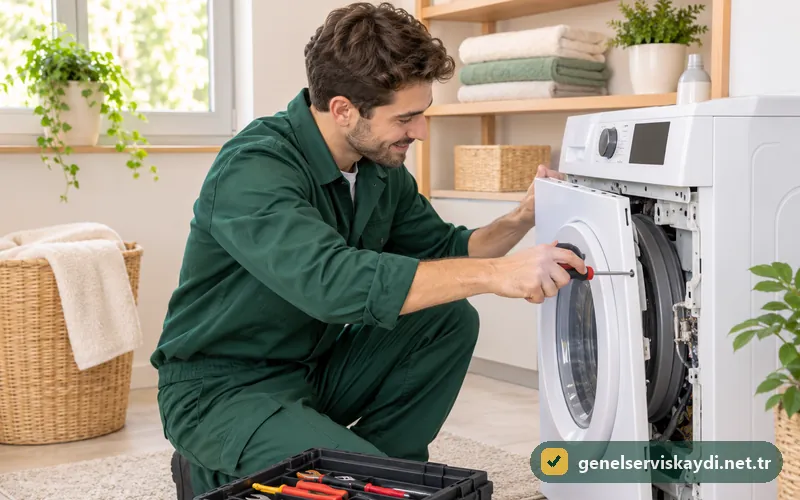
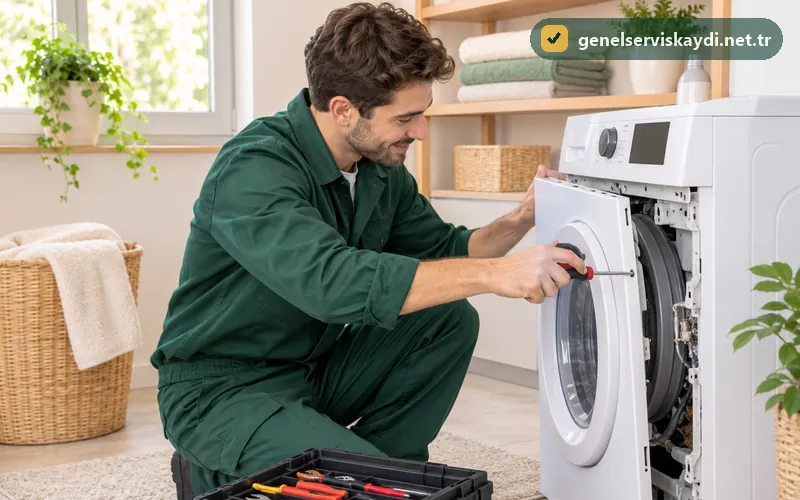
Cihaz kartlarında koyu ton alttan yukarı, filigran sağ üstte; görsel adreslerine sürüm

Changed region(s): [[0.6562, 0.87, 1.0, 0.99], [0.6562, 0.03, 1.0, 0.12]]

diff --git a/index.html b/index.html
@@ -105,7 +105,7 @@ p{margin:0 0 1em}.kap{width:min(1180px,100% - 32px);margin-inline:auto}.dar{widt
 .hizmetler{display:grid;grid-template-columns:repeat(3,1fr);gap:22px}
 .hizmet{background:#fff;border-radius:var(--r);overflow:hidden;box-shadow:0 1px 0 var(--line),0 12px 30px -24px rgba(12,59,46,.5);display:flex;flex-direction:column;transition:transform .2s,box-shadow .2s}
 .hizmet:hover{transform:translateY(-3px);box-shadow:var(--sh)}
-.h-foto{position:relative;aspect-ratio:16/10;border-bottom:3px solid var(--altin)}.h-foto img,.h-foto .yt{width:100%;height:100%;object-fit:cover}.h-foto img{filter:saturate(.88) contrast(1.04)}.h-foto::after{content:"";position:absolute;inset:0;background:linear-gradient(90deg,rgba(9,44,34,.62) 0,rgba(9,44,34,.38) 45%,rgba(9,44,34,.18) 100%);pointer-events:none;transition:opacity .25s}.hizmet:hover .h-foto::after{opacity:.55}.h-etiket{position:absolute;left:14px;top:14px;z-index:1;background:rgba(12,59,46,.86);color:#fff;font:600 .72rem/1 var(--fh);letter-spacing:.06em;text-transform:uppercase;padding:7px 10px;border-radius:6px;border-left:3px solid var(--altin)}.h-ikon{z-index:1}
+.h-foto{position:relative;aspect-ratio:16/10;border-bottom:3px solid var(--altin)}.h-foto img,.h-foto .yt{width:100%;height:100%;object-fit:cover}.h-foto img{filter:saturate(.88) contrast(1.04)}.h-foto::after{content:"";position:absolute;inset:0;background:linear-gradient(0deg,rgba(9,44,34,.85) 0,rgba(9,44,34,.45) 40%,rgba(9,44,34,.08) 100%);pointer-events:none;transition:opacity .25s}.hizmet:hover .h-foto::after{opacity:.55}.h-etiket{position:absolute;left:14px;top:14px;z-index:1;background:rgba(12,59,46,.86);color:#fff;font:600 .72rem/1 var(--fh);letter-spacing:.06em;text-transform:uppercase;padding:7px 10px;border-radius:6px;border-left:3px solid var(--altin)}.h-ikon{z-index:1}
 .h-ikon{position:absolute;left:18px;bottom:-22px;width:48px;height:48px;border-radius:12px;background:var(--yesil);color:var(--altin);display:grid;place-items:center;box-shadow:0 0 0 4px #fff}.h-ikon svg{width:24px;height:24px}
 .h-ic{padding:34px 20px 20px;display:flex;flex-direction:column;flex:1}
 .h-ic h3{color:var(--yesil)}.h-ic p{color:var(--ink2);font-size:.95rem;flex:1}
@@ -173,7 +173,7 @@ footer a{color:#d6e6de;text-decoration:none}footer a:hover{color:var(--altin)}
 <main id="ust">
 <!-- 1 · GİRİŞ + SERVİS KAYDI -->
 <section class="hero foto" aria-labelledby="h1">
-<div class="hero-arka"><img src="img/hero-800.webp" srcset="img/hero-800.webp 800w, img/hero-1400.webp 1400w" sizes="100vw" width="800" height="450" alt="Teknisyen evde bulaşık makinesini onarırken, anne ve kızı mutfakta izliyor" fetchpriority="high"></div>
+<div class="hero-arka"><img src="img/hero-800.webp?v=1795679178" srcset="img/hero-800.webp?v=1795679178 800w, img/hero-1400.webp?v=1795679178 1400w" sizes="100vw" width="800" height="450" alt="Teknisyen evde bulaşık makinesini onarırken, anne ve kızı mutfakta izliyor" fetchpriority="high"></div>
 <div class="kap hero-izgara">
 <div class="hero-ic">
 <span class="etiket">Bağımsız özel teknik servis</span>
@@ -198,7 +198,7 @@ footer a{color:#d6e6de;text-decoration:none}footer a:hover{color:var(--altin)}
 
 <!-- 2 · KURUMSAL YAPI -->
 <section class="bolum" id="kurumsal" aria-labelledby="h-kur"><div class="kap kurumsal">
-<div class="kur-gorsel"><img src="img/kurumsal-800.webp" srcset="img/kurumsal-800.webp 800w, img/kurumsal-1400.webp 855w" sizes="(max-width:900px) 92vw, 520px" width="800" height="880" alt="Servis kayıt biriminde talep kaydeden çalışan" loading="lazy" decoding="async"><div class="kur-rozet"><svg viewBox="0 0 24 24" fill="none" stroke="currentColor" stroke-width="1.9" stroke-linecap="round" stroke-linejoin="round" aria-hidden="true"><path d="M12 22s8-4 8-10V5l-8-3-8 3v7c0 6 8 10 8 10z"/><path d="m9 12 2 2 4-4"/></svg><span><b>Kayıtlı süreç</b>Her talep kayıtla başlar, kayıtla kapanır</span></div></div>
+<div class="kur-gorsel"><img src="img/kurumsal-800.webp?v=1795679179" srcset="img/kurumsal-800.webp?v=1795679179 800w, img/kurumsal-1400.webp?v=1795679179 855w" sizes="(max-width:900px) 92vw, 520px" width="800" height="880" alt="Servis kayıt biriminde talep kaydeden çalışan" loading="lazy" decoding="async"><div class="kur-rozet"><svg viewBox="0 0 24 24" fill="none" stroke="currentColor" stroke-width="1.9" stroke-linecap="round" stroke-linejoin="round" aria-hidden="true"><path d="M12 22s8-4 8-10V5l-8-3-8 3v7c0 6 8 10 8 10z"/><path d="m9 12 2 2 4-4"/></svg><span><b>Kayıtlı süreç</b>Her talep kayıtla başlar, kayıtla kapanır</span></div></div>
 <div>
 <span class="etiket koyu">Kurumsal yapımız</span>
 <h2 id="h-kur">Her servis talebi kayıtlı ve planlı ilerler</h2>
@@ -210,7 +210,7 @@ footer a{color:#d6e6de;text-decoration:none}footer a:hover{color:var(--altin)}
 <!-- 3 · HİZMETLER -->
 <section class="bolum acik" id="hizmetler" aria-labelledby="h-hiz"><div class="kap">
 <div class="bas"><span class="etiket koyu">Hizmetlerimiz</span><h2 id="h-hiz">Servis verdiğimiz cihazlar</h2><p>Arıza, bakım ve onarım için tek kayıt.</p></div>
-<div class="hizmetler"><article class="hizmet"><div class="h-foto"><img src="img/buzdolabi-480.webp" srcset="img/buzdolabi-480.webp 480w, img/buzdolabi-800.webp 800w" sizes="(max-width:640px) 92vw, (max-width:1020px) 46vw, 360px" width="480" height="300" alt="Buzdolabı onarımı yapan teknisyen" loading="lazy" decoding="async"><span class="h-etiket">Servis kaydı · 01</span><span class="h-ikon"><svg viewBox="0 0 24 24" fill="none" stroke="currentColor" stroke-width="1.9" stroke-linecap="round" stroke-linejoin="round" aria-hidden="true"><rect x="5" y="2" width="14" height="20" rx="2.5"/><path d="M5 9.5h14M8.5 5v2M8.5 12.5v3.5"/></svg></span></div><div class="h-ic"><h3>Buzdolabı Servisi</h3><p>Soğutma kaybı, karlanma, su sızıntısı, fan ve termostat arızaları.</p><a href="#kayit">Servis kaydı oluştur <svg viewBox="0 0 24 24" fill="none" stroke="currentColor" stroke-width="1.9" stroke-linecap="round" stroke-linejoin="round" aria-hidden="true"><path d="M5 12h14M13 6l6 6-6 6"/></svg></a></div></article><article class="hizmet"><div class="h-foto"><img src="img/camasir-480.webp" srcset="img/camasir-480.webp 480w, img/camasir-800.webp 800w" sizes="(max-width:640px) 92vw, (max-width:1020px) 46vw, 360px" width="480" height="300" alt="Çamaşır Makinesi onarımı yapan teknisyen" loading="lazy" decoding="async"><span class="h-etiket">Servis kaydı · 02</span><span class="h-ikon"><svg viewBox="0 0 24 24" fill="none" stroke="currentColor" stroke-width="1.9" stroke-linecap="round" stroke-linejoin="round" aria-hidden="true"><rect x="3.5" y="2" width="17" height="20" rx="2.5"/><circle cx="12" cy="13.5" r="5"/><path d="M7 5.5h.01M10 5.5h.01"/></svg></span></div><div class="h-ic"><h3>Çamaşır Makinesi Servisi</h3><p>Su boşaltmama, sıkmama, kapak kilidi, titreşim ve hata uyarıları.</p><a href="#kayit">Servis kaydı oluştur <svg viewBox="0 0 24 24" fill="none" stroke="currentColor" stroke-width="1.9" stroke-linecap="round" stroke-linejoin="round" aria-hidden="true"><path d="M5 12h14M13 6l6 6-6 6"/></svg></a></div></article><article class="hizmet"><div class="h-foto"><img src="img/bulasik-480.webp" srcset="img/bulasik-480.webp 480w, img/bulasik-800.webp 800w" sizes="(max-width:640px) 92vw, (max-width:1020px) 46vw, 360px" width="480" height="300" alt="Bulaşık Makinesi onarımı yapan teknisyen" loading="lazy" decoding="async"><span class="h-etiket">Servis kaydı · 03</span><span class="h-ikon"><svg viewBox="0 0 24 24" fill="none" stroke="currentColor" stroke-width="1.9" stroke-linecap="round" stroke-linejoin="round" aria-hidden="true"><rect x="4" y="2" width="16" height="20" rx="2.5"/><path d="M4 7h16M7.5 4.5h.01M8 11h8M8 14.5h8M8 18h8"/></svg></span></div><div class="h-ic"><h3>Bulaşık Makinesi Servisi</h3><p>Temiz yıkamama, su almama, kurutmama ve pompa arızaları.</p><a href="#kayit">Servis kaydı oluştur <svg viewBox="0 0 24 24" fill="none" stroke="currentColor" stroke-width="1.9" stroke-linecap="round" stroke-linejoin="round" aria-hidden="true"><path d="M5 12h14M13 6l6 6-6 6"/></svg></a></div></article><article class="hizmet"><div class="h-foto"><img src="img/firin-480.webp" srcset="img/firin-480.webp 480w, img/firin-800.webp 800w" sizes="(max-width:640px) 92vw, (max-width:1020px) 46vw, 360px" width="480" height="300" alt="Fırın ve Ocak onarımı yapan teknisyen" loading="lazy" decoding="async"><span class="h-etiket">Servis kaydı · 04</span><span class="h-ikon"><svg viewBox="0 0 24 24" fill="none" stroke="currentColor" stroke-width="1.9" stroke-linecap="round" stroke-linejoin="round" aria-hidden="true"><rect x="3" y="3" width="18" height="18" rx="2.5"/><path d="M3 8h18M6.5 5.5h.01M10 5.5h.01M7 11.5h10v6H7z"/></svg></span></div><div class="h-ic"><h3>Fırın ve Ocak Servisi</h3><p>Isınmama, rezistans, termostat, fan ve ocak gözü arızaları.</p><a href="#kayit">Servis kaydı oluştur <svg viewBox="0 0 24 24" fill="none" stroke="currentColor" stroke-width="1.9" stroke-linecap="round" stroke-linejoin="round" aria-hidden="true"><path d="M5 12h14M13 6l6 6-6 6"/></svg></a></div></article><article class="hizmet"><div class="h-foto"><img src="img/kombi-480.webp" srcset="img/kombi-480.webp 480w, img/kombi-800.webp 800w" sizes="(max-width:640px) 92vw, (max-width:1020px) 46vw, 360px" width="480" height="300" alt="Kombi onarımı yapan teknisyen" loading="lazy" decoding="async"><span class="h-etiket">Servis kaydı · 05</span><span class="h-ikon"><svg viewBox="0 0 24 24" fill="none" stroke="currentColor" stroke-width="1.9" stroke-linecap="round" stroke-linejoin="round" aria-hidden="true"><rect x="5" y="2" width="14" height="15" rx="2.5"/><path d="M9 21v-4M15 21v-4M12 5.5c-1.6 2-2.2 3.2-2.2 4.2a2.2 2.2 0 0 0 4.4 0c0-1-.6-2.2-2.2-4.2z"/></svg></span></div><div class="h-ic"><h3>Kombi Servisi</h3><p>Sıcak su sorunu, basınç düşmesi, arıza kodları ve periyodik bakım.</p><a href="#kayit">Servis kaydı oluştur <svg viewBox="0 0 24 24" fill="none" stroke="currentColor" stroke-width="1.9" stroke-linecap="round" stroke-linejoin="round" aria-hidden="true"><path d="M5 12h14M13 6l6 6-6 6"/></svg></a></div></article><article class="hizmet"><div class="h-foto"><img src="img/klima-480.webp" srcset="img/klima-480.webp 480w, img/klima-800.webp 800w" sizes="(max-width:640px) 92vw, (max-width:1020px) 46vw, 360px" width="480" height="300" alt="Klima onarımı yapan teknisyen" loading="lazy" decoding="async"><span class="h-etiket">Servis kaydı · 06</span><span class="h-ikon"><svg viewBox="0 0 24 24" fill="none" stroke="currentColor" stroke-width="1.9" stroke-linecap="round" stroke-linejoin="round" aria-hidden="true"><rect x="2" y="4" width="20" height="8.5" rx="2.5"/><path d="M6 9.5h12M7 16c0 1.5-1 2-1 3.5M12 16v4M17 16c0 1.5 1 2 1 3.5"/></svg></span></div><div class="h-ic"><h3>Klima Servisi</h3><p>Soğutmama, su damlatma, koku, ses ve mevsimlik bakım.</p><a href="#kayit">Servis kaydı oluştur <svg viewBox="0 0 24 24" fill="none" stroke="currentColor" stroke-width="1.9" stroke-linecap="round" stroke-linejoin="round" aria-hidden="true"><path d="M5 12h14M13 6l6 6-6 6"/></svg></a></div></article></div>
+<div class="hizmetler"><article class="hizmet"><div class="h-foto"><img src="img/buzdolabi-480.webp?v=1795679177" srcset="img/buzdolabi-480.webp?v=1795679177 480w, img/buzdolabi-800.webp?v=1795679177 800w" sizes="(max-width:640px) 92vw, (max-width:1020px) 46vw, 360px" width="480" height="300" alt="Buzdolabı onarımı yapan teknisyen" loading="lazy" decoding="async"><span class="h-etiket">Servis kaydı · 01</span><span class="h-ikon"><svg viewBox="0 0 24 24" fill="none" stroke="currentColor" stroke-width="1.9" stroke-linecap="round" stroke-linejoin="round" aria-hidden="true"><rect x="5" y="2" width="14" height="20" rx="2.5"/><path d="M5 9.5h14M8.5 5v2M8.5 12.5v3.5"/></svg></span></div><div class="h-ic"><h3>Buzdolabı Servisi</h3><p>Soğutma kaybı, karlanma, su sızıntısı, fan ve termostat arızaları.</p><a href="#kayit">Servis kaydı oluştur <svg viewBox="0 0 24 24" fill="none" stroke="currentColor" stroke-width="1.9" stroke-linecap="round" stroke-linejoin="round" aria-hidden="true"><path d="M5 12h14M13 6l6 6-6 6"/></svg></a></div></article><article class="hizmet"><div class="h-foto"><img src="img/camasir-480.webp?v=1795679177" srcset="img/camasir-480.webp?v=1795679177 480w, img/camasir-800.webp?v=1795679177 800w" sizes="(max-width:640px) 92vw, (max-width:1020px) 46vw, 360px" width="480" height="300" alt="Çamaşır Makinesi onarımı yapan teknisyen" loading="lazy" decoding="async"><span class="h-etiket">Servis kaydı · 02</span><span class="h-ikon"><svg viewBox="0 0 24 24" fill="none" stroke="currentColor" stroke-width="1.9" stroke-linecap="round" stroke-linejoin="round" aria-hidden="true"><rect x="3.5" y="2" width="17" height="20" rx="2.5"/><circle cx="12" cy="13.5" r="5"/><path d="M7 5.5h.01M10 5.5h.01"/></svg></span></div><div class="h-ic"><h3>Çamaşır Makinesi Servisi</h3><p>Su boşaltmama, sıkmama, kapak kilidi, titreşim ve hata uyarıları.</p><a href="#kayit">Servis kaydı oluştur <svg viewBox="0 0 24 24" fill="none" stroke="currentColor" stroke-width="1.9" stroke-linecap="round" stroke-linejoin="round" aria-hidden="true"><path d="M5 12h14M13 6l6 6-6 6"/></svg></a></div></article><article class="hizmet"><div class="h-foto"><img src="img/bulasik-480.webp?v=1795679177" srcset="img/bulasik-480.webp?v=1795679177 480w, img/bulasik-800.webp?v=1795679177 800w" sizes="(max-width:640px) 92vw, (max-width:1020px) 46vw, 360px" width="480" height="300" alt="Bulaşık Makinesi onarımı yapan teknisyen" loading="lazy" decoding="async"><span class="h-etiket">Servis kaydı · 03</span><span class="h-ikon"><svg viewBox="0 0 24 24" fill="none" stroke="currentColor" stroke-width="1.9" stroke-linecap="round" stroke-linejoin="round" aria-hidden="true"><rect x="4" y="2" width="16" height="20" rx="2.5"/><path d="M4 7h16M7.5 4.5h.01M8 11h8M8 14.5h8M8 18h8"/></svg></span></div><div class="h-ic"><h3>Bulaşık Makinesi Servisi</h3><p>Temiz yıkamama, su almama, kurutmama ve pompa arızaları.</p><a href="#kayit">Servis kaydı oluştur <svg viewBox="0 0 24 24" fill="none" stroke="currentColor" stroke-width="1.9" stroke-linecap="round" stroke-linejoin="round" aria-hidden="true"><path d="M5 12h14M13 6l6 6-6 6"/></svg></a></div></article><article class="hizmet"><div class="h-foto"><img src="img/firin-480.webp?v=1795679178" srcset="img/firin-480.webp?v=1795679178 480w, img/firin-800.webp?v=1795679178 800w" sizes="(max-width:640px) 92vw, (max-width:1020px) 46vw, 360px" width="480" height="300" alt="Fırın ve Ocak onarımı yapan teknisyen" loading="lazy" decoding="async"><span class="h-etiket">Servis kaydı · 04</span><span class="h-ikon"><svg viewBox="0 0 24 24" fill="none" stroke="currentColor" stroke-width="1.9" stroke-linecap="round" stroke-linejoin="round" aria-hidden="true"><rect x="3" y="3" width="18" height="18" rx="2.5"/><path d="M3 8h18M6.5 5.5h.01M10 5.5h.01M7 11.5h10v6H7z"/></svg></span></div><div class="h-ic"><h3>Fırın ve Ocak Servisi</h3><p>Isınmama, rezistans, termostat, fan ve ocak gözü arızaları.</p><a href="#kayit">Servis kaydı oluştur <svg viewBox="0 0 24 24" fill="none" stroke="currentColor" stroke-width="1.9" stroke-linecap="round" stroke-linejoin="round" aria-hidden="true"><path d="M5 12h14M13 6l6 6-6 6"/></svg></a></div></article><article class="hizmet"><div class="h-foto"><img src="img/kombi-480.webp?v=1795679178" srcset="img/kombi-480.webp?v=1795679178 480w, img/kombi-800.webp?v=1795679179 800w" sizes="(max-width:640px) 92vw, (max-width:1020px) 46vw, 360px" width="480" height="300" alt="Kombi onarımı yapan teknisyen" loading="lazy" decoding="async"><span class="h-etiket">Servis kaydı · 05</span><span class="h-ikon"><svg viewBox="0 0 24 24" fill="none" stroke="currentColor" stroke-width="1.9" stroke-linecap="round" stroke-linejoin="round" aria-hidden="true"><rect x="5" y="2" width="14" height="15" rx="2.5"/><path d="M9 21v-4M15 21v-4M12 5.5c-1.6 2-2.2 3.2-2.2 4.2a2.2 2.2 0 0 0 4.4 0c0-1-.6-2.2-2.2-4.2z"/></svg></span></div><div class="h-ic"><h3>Kombi Servisi</h3><p>Sıcak su sorunu, basınç düşmesi, arıza kodları ve periyodik bakım.</p><a href="#kayit">Servis kaydı oluştur <svg viewBox="0 0 24 24" fill="none" stroke="currentColor" stroke-width="1.9" stroke-linecap="round" stroke-linejoin="round" aria-hidden="true"><path d="M5 12h14M13 6l6 6-6 6"/></svg></a></div></article><article class="hizmet"><div class="h-foto"><img src="img/klima-480.webp?v=1795679178" srcset="img/klima-480.webp?v=1795679178 480w, img/klima-800.webp?v=1795679178 800w" sizes="(max-width:640px) 92vw, (max-width:1020px) 46vw, 360px" width="480" height="300" alt="Klima onarımı yapan teknisyen" loading="lazy" decoding="async"><span class="h-etiket">Servis kaydı · 06</span><span class="h-ikon"><svg viewBox="0 0 24 24" fill="none" stroke="currentColor" stroke-width="1.9" stroke-linecap="round" stroke-linejoin="round" aria-hidden="true"><rect x="2" y="4" width="20" height="8.5" rx="2.5"/><path d="M6 9.5h12M7 16c0 1.5-1 2-1 3.5M12 16v4M17 16c0 1.5 1 2 1 3.5"/></svg></span></div><div class="h-ic"><h3>Klima Servisi</h3><p>Soğutmama, su damlatma, koku, ses ve mevsimlik bakım.</p><a href="#kayit">Servis kaydı oluştur <svg viewBox="0 0 24 24" fill="none" stroke="currentColor" stroke-width="1.9" stroke-linecap="round" stroke-linejoin="round" aria-hidden="true"><path d="M5 12h14M13 6l6 6-6 6"/></svg></a></div></article></div>
 </div></section>
 
 <!-- 4 · SERVİS KAYDI SÜRECİ -->

diff --git a/404.html b/404.html
@@ -105,7 +105,7 @@ p{margin:0 0 1em}.kap{width:min(1180px,100% - 32px);margin-inline:auto}.dar{widt
 .hizmetler{display:grid;grid-template-columns:repeat(3,1fr);gap:22px}
 .hizmet{background:#fff;border-radius:var(--r);overflow:hidden;box-shadow:0 1px 0 var(--line),0 12px 30px -24px rgba(12,59,46,.5);display:flex;flex-direction:column;transition:transform .2s,box-shadow .2s}
 .hizmet:hover{transform:translateY(-3px);box-shadow:var(--sh)}
-.h-foto{position:relative;aspect-ratio:16/10;border-bottom:3px solid var(--altin)}.h-foto img,.h-foto .yt{width:100%;height:100%;object-fit:cover}.h-foto img{filter:saturate(.88) contrast(1.04)}.h-foto::after{content:"";position:absolute;inset:0;background:linear-gradient(90deg,rgba(9,44,34,.62) 0,rgba(9,44,34,.38) 45%,rgba(9,44,34,.18) 100%);pointer-events:none;transition:opacity .25s}.hizmet:hover .h-foto::after{opacity:.55}.h-etiket{position:absolute;left:14px;top:14px;z-index:1;background:rgba(12,59,46,.86);color:#fff;font:600 .72rem/1 var(--fh);letter-spacing:.06em;text-transform:uppercase;padding:7px 10px;border-radius:6px;border-left:3px solid var(--altin)}.h-ikon{z-index:1}
+.h-foto{position:relative;aspect-ratio:16/10;border-bottom:3px solid var(--altin)}.h-foto img,.h-foto .yt{width:100%;height:100%;object-fit:cover}.h-foto img{filter:saturate(.88) contrast(1.04)}.h-foto::after{content:"";position:absolute;inset:0;background:linear-gradient(0deg,rgba(9,44,34,.85) 0,rgba(9,44,34,.45) 40%,rgba(9,44,34,.08) 100%);pointer-events:none;transition:opacity .25s}.hizmet:hover .h-foto::after{opacity:.55}.h-etiket{position:absolute;left:14px;top:14px;z-index:1;background:rgba(12,59,46,.86);color:#fff;font:600 .72rem/1 var(--fh);letter-spacing:.06em;text-transform:uppercase;padding:7px 10px;border-radius:6px;border-left:3px solid var(--altin)}.h-ikon{z-index:1}
 .h-ikon{position:absolute;left:18px;bottom:-22px;width:48px;height:48px;border-radius:12px;background:var(--yesil);color:var(--altin);display:grid;place-items:center;box-shadow:0 0 0 4px #fff}.h-ikon svg{width:24px;height:24px}
 .h-ic{padding:34px 20px 20px;display:flex;flex-direction:column;flex:1}
 .h-ic h3{color:var(--yesil)}.h-ic p{color:var(--ink2);font-size:.95rem;flex:1}

diff --git a/cerez-politikasi.html b/cerez-politikasi.html
@@ -105,7 +105,7 @@ p{margin:0 0 1em}.kap{width:min(1180px,100% - 32px);margin-inline:auto}.dar{widt
 .hizmetler{display:grid;grid-template-columns:repeat(3,1fr);gap:22px}
 .hizmet{background:#fff;border-radius:var(--r);overflow:hidden;box-shadow:0 1px 0 var(--line),0 12px 30px -24px rgba(12,59,46,.5);display:flex;flex-direction:column;transition:transform .2s,box-shadow .2s}
 .hizmet:hover{transform:translateY(-3px);box-shadow:var(--sh)}
-.h-foto{position:relative;aspect-ratio:16/10;border-bottom:3px solid var(--altin)}.h-foto img,.h-foto .yt{width:100%;height:100%;object-fit:cover}.h-foto img{filter:saturate(.88) contrast(1.04)}.h-foto::after{content:"";position:absolute;inset:0;background:linear-gradient(90deg,rgba(9,44,34,.62) 0,rgba(9,44,34,.38) 45%,rgba(9,44,34,.18) 100%);pointer-events:none;transition:opacity .25s}.hizmet:hover .h-foto::after{opacity:.55}.h-etiket{position:absolute;left:14px;top:14px;z-index:1;background:rgba(12,59,46,.86);color:#fff;font:600 .72rem/1 var(--fh);letter-spacing:.06em;text-transform:uppercase;padding:7px 10px;border-radius:6px;border-left:3px solid var(--altin)}.h-ikon{z-index:1}
+.h-foto{position:relative;aspect-ratio:16/10;border-bottom:3px solid var(--altin)}.h-foto img,.h-foto .yt{width:100%;height:100%;object-fit:cover}.h-foto img{filter:saturate(.88) contrast(1.04)}.h-foto::after{content:"";position:absolute;inset:0;background:linear-gradient(0deg,rgba(9,44,34,.85) 0,rgba(9,44,34,.45) 40%,rgba(9,44,34,.08) 100%);pointer-events:none;transition:opacity .25s}.hizmet:hover .h-foto::after{opacity:.55}.h-etiket{position:absolute;left:14px;top:14px;z-index:1;background:rgba(12,59,46,.86);color:#fff;font:600 .72rem/1 var(--fh);letter-spacing:.06em;text-transform:uppercase;padding:7px 10px;border-radius:6px;border-left:3px solid var(--altin)}.h-ikon{z-index:1}
 .h-ikon{position:absolute;left:18px;bottom:-22px;width:48px;height:48px;border-radius:12px;background:var(--yesil);color:var(--altin);display:grid;place-items:center;box-shadow:0 0 0 4px #fff}.h-ikon svg{width:24px;height:24px}
 .h-ic{padding:34px 20px 20px;display:flex;flex-direction:column;flex:1}
 .h-ic h3{color:var(--yesil)}.h-ic p{color:var(--ink2);font-size:.95rem;flex:1}

diff --git a/gizlilik.html b/gizlilik.html
@@ -105,7 +105,7 @@ p{margin:0 0 1em}.kap{width:min(1180px,100% - 32px);margin-inline:auto}.dar{widt
 .hizmetler{display:grid;grid-template-columns:repeat(3,1fr);gap:22px}
 .hizmet{background:#fff;border-radius:var(--r);overflow:hidden;box-shadow:0 1px 0 var(--line),0 12px 30px -24px rgba(12,59,46,.5);display:flex;flex-direction:column;transition:transform .2s,box-shadow .2s}
 .hizmet:hover{transform:translateY(-3px);box-shadow:var(--sh)}
-.h-foto{position:relative;aspect-ratio:16/10;border-bottom:3px solid var(--altin)}.h-foto img,.h-foto .yt{width:100%;height:100%;object-fit:cover}.h-foto img{filter:saturate(.88) contrast(1.04)}.h-foto::after{content:"";position:absolute;inset:0;background:linear-gradient(90deg,rgba(9,44,34,.62) 0,rgba(9,44,34,.38) 45%,rgba(9,44,34,.18) 100%);pointer-events:none;transition:opacity .25s}.hizmet:hover .h-foto::after{opacity:.55}.h-etiket{position:absolute;left:14px;top:14px;z-index:1;background:rgba(12,59,46,.86);color:#fff;font:600 .72rem/1 var(--fh);letter-spacing:.06em;text-transform:uppercase;padding:7px 10px;border-radius:6px;border-left:3px solid var(--altin)}.h-ikon{z-index:1}
+.h-foto{position:relative;aspect-ratio:16/10;border-bottom:3px solid var(--altin)}.h-foto img,.h-foto .yt{width:100%;height:100%;object-fit:cover}.h-foto img{filter:saturate(.88) contrast(1.04)}.h-foto::after{content:"";position:absolute;inset:0;background:linear-gradient(0deg,rgba(9,44,34,.85) 0,rgba(9,44,34,.45) 40%,rgba(9,44,34,.08) 100%);pointer-events:none;transition:opacity .25s}.hizmet:hover .h-foto::after{opacity:.55}.h-etiket{position:absolute;left:14px;top:14px;z-index:1;background:rgba(12,59,46,.86);color:#fff;font:600 .72rem/1 var(--fh);letter-spacing:.06em;text-transform:uppercase;padding:7px 10px;border-radius:6px;border-left:3px solid var(--altin)}.h-ikon{z-index:1}
 .h-ikon{position:absolute;left:18px;bottom:-22px;width:48px;height:48px;border-radius:12px;background:var(--yesil);color:var(--altin);display:grid;place-items:center;box-shadow:0 0 0 4px #fff}.h-ikon svg{width:24px;height:24px}
 .h-ic{padding:34px 20px 20px;display:flex;flex-direction:column;flex:1}
 .h-ic h3{color:var(--yesil)}.h-ic p{color:var(--ink2);font-size:.95rem;flex:1}

diff --git a/hakkimizda.html b/hakkimizda.html
@@ -105,7 +105,7 @@ p{margin:0 0 1em}.kap{width:min(1180px,100% - 32px);margin-inline:auto}.dar{widt
 .hizmetler{display:grid;grid-template-columns:repeat(3,1fr);gap:22px}
 .hizmet{background:#fff;border-radius:var(--r);overflow:hidden;box-shadow:0 1px 0 var(--line),0 12px 30px -24px rgba(12,59,46,.5);display:flex;flex-direction:column;transition:transform .2s,box-shadow .2s}
 .hizmet:hover{transform:translateY(-3px);box-shadow:var(--sh)}
-.h-foto{position:relative;aspect-ratio:16/10;border-bottom:3px solid var(--altin)}.h-foto img,.h-foto .yt{width:100%;height:100%;object-fit:cover}.h-foto img{filter:saturate(.88) contrast(1.04)}.h-foto::after{content:"";position:absolute;inset:0;background:linear-gradient(90deg,rgba(9,44,34,.62) 0,rgba(9,44,34,.38) 45%,rgba(9,44,34,.18) 100%);pointer-events:none;transition:opacity .25s}.hizmet:hover .h-foto::after{opacity:.55}.h-etiket{position:absolute;left:14px;top:14px;z-index:1;background:rgba(12,59,46,.86);color:#fff;font:600 .72rem/1 var(--fh);letter-spacing:.06em;text-transform:uppercase;padding:7px 10px;border-radius:6px;border-left:3px solid var(--altin)}.h-ikon{z-index:1}
+.h-foto{position:relative;aspect-ratio:16/10;border-bottom:3px solid var(--altin)}.h-foto img,.h-foto .yt{width:100%;height:100%;object-fit:cover}.h-foto img{filter:saturate(.88) contrast(1.04)}.h-foto::after{content:"";position:absolute;inset:0;background:linear-gradient(0deg,rgba(9,44,34,.85) 0,rgba(9,44,34,.45) 40%,rgba(9,44,34,.08) 100%);pointer-events:none;transition:opacity .25s}.hizmet:hover .h-foto::after{opacity:.55}.h-etiket{position:absolute;left:14px;top:14px;z-index:1;background:rgba(12,59,46,.86);color:#fff;font:600 .72rem/1 var(--fh);letter-spacing:.06em;text-transform:uppercase;padding:7px 10px;border-radius:6px;border-left:3px solid var(--altin)}.h-ikon{z-index:1}
 .h-ikon{position:absolute;left:18px;bottom:-22px;width:48px;height:48px;border-radius:12px;background:var(--yesil);color:var(--altin);display:grid;place-items:center;box-shadow:0 0 0 4px #fff}.h-ikon svg{width:24px;height:24px}
 .h-ic{padding:34px 20px 20px;display:flex;flex-direction:column;flex:1}
 .h-ic h3{color:var(--yesil)}.h-ic p{color:var(--ink2);font-size:.95rem;flex:1}

diff --git a/hizmet-kosullari.html b/hizmet-kosullari.html
@@ -105,7 +105,7 @@ p{margin:0 0 1em}.kap{width:min(1180px,100% - 32px);margin-inline:auto}.dar{widt
 .hizmetler{display:grid;grid-template-columns:repeat(3,1fr);gap:22px}
 .hizmet{background:#fff;border-radius:var(--r);overflow:hidden;box-shadow:0 1px 0 var(--line),0 12px 30px -24px rgba(12,59,46,.5);display:flex;flex-direction:column;transition:transform .2s,box-shadow .2s}
 .hizmet:hover{transform:translateY(-3px);box-shadow:var(--sh)}
-.h-foto{position:relative;aspect-ratio:16/10;border-bottom:3px solid var(--altin)}.h-foto img,.h-foto .yt{width:100%;height:100%;object-fit:cover}.h-foto img{filter:saturate(.88) contrast(1.04)}.h-foto::after{content:"";position:absolute;inset:0;background:linear-gradient(90deg,rgba(9,44,34,.62) 0,rgba(9,44,34,.38) 45%,rgba(9,44,34,.18) 100%);pointer-events:none;transition:opacity .25s}.hizmet:hover .h-foto::after{opacity:.55}.h-etiket{position:absolute;left:14px;top:14px;z-index:1;background:rgba(12,59,46,.86);color:#fff;font:600 .72rem/1 var(--fh);letter-spacing:.06em;text-transform:uppercase;padding:7px 10px;border-radius:6px;border-left:3px solid var(--altin)}.h-ikon{z-index:1}
+.h-foto{position:relative;aspect-ratio:16/10;border-bottom:3px solid var(--altin)}.h-foto img,.h-foto .yt{width:100%;height:100%;object-fit:cover}.h-foto img{filter:saturate(.88) contrast(1.04)}.h-foto::after{content:"";position:absolute;inset:0;background:linear-gradient(0deg,rgba(9,44,34,.85) 0,rgba(9,44,34,.45) 40%,rgba(9,44,34,.08) 100%);pointer-events:none;transition:opacity .25s}.hizmet:hover .h-foto::after{opacity:.55}.h-etiket{position:absolute;left:14px;top:14px;z-index:1;background:rgba(12,59,46,.86);color:#fff;font:600 .72rem/1 var(--fh);letter-spacing:.06em;text-transform:uppercase;padding:7px 10px;border-radius:6px;border-left:3px solid var(--altin)}.h-ikon{z-index:1}
 .h-ikon{position:absolute;left:18px;bottom:-22px;width:48px;height:48px;border-radius:12px;background:var(--yesil);color:var(--altin);display:grid;place-items:center;box-shadow:0 0 0 4px #fff}.h-ikon svg{width:24px;height:24px}
 .h-ic{padding:34px 20px 20px;display:flex;flex-direction:column;flex:1}
 .h-ic h3{color:var(--yesil)}.h-ic p{color:var(--ink2);font-size:.95rem;flex:1}

diff --git a/iletisim.html b/iletisim.html
@@ -105,7 +105,7 @@ p{margin:0 0 1em}.kap{width:min(1180px,100% - 32px);margin-inline:auto}.dar{widt
 .hizmetler{display:grid;grid-template-columns:repeat(3,1fr);gap:22px}
 .hizmet{background:#fff;border-radius:var(--r);overflow:hidden;box-shadow:0 1px 0 var(--line),0 12px 30px -24px rgba(12,59,46,.5);display:flex;flex-direction:column;transition:transform .2s,box-shadow .2s}
 .hizmet:hover{transform:translateY(-3px);box-shadow:var(--sh)}
-.h-foto{position:relative;aspect-ratio:16/10;border-bottom:3px solid var(--altin)}.h-foto img,.h-foto .yt{width:100%;height:100%;object-fit:cover}.h-foto img{filter:saturate(.88) contrast(1.04)}.h-foto::after{content:"";position:absolute;inset:0;background:linear-gradient(90deg,rgba(9,44,34,.62) 0,rgba(9,44,34,.38) 45%,rgba(9,44,34,.18) 100%);pointer-events:none;transition:opacity .25s}.hizmet:hover .h-foto::after{opacity:.55}.h-etiket{position:absolute;left:14px;top:14px;z-index:1;background:rgba(12,59,46,.86);color:#fff;font:600 .72rem/1 var(--fh);letter-spacing:.06em;text-transform:uppercase;padding:7px 10px;border-radius:6px;border-left:3px solid var(--altin)}.h-ikon{z-index:1}
+.h-foto{position:relative;aspect-ratio:16/10;border-bottom:3px solid var(--altin)}.h-foto img,.h-foto .yt{width:100%;height:100%;object-fit:cover}.h-foto img{filter:saturate(.88) contrast(1.04)}.h-foto::after{content:"";position:absolute;inset:0;background:linear-gradient(0deg,rgba(9,44,34,.85) 0,rgba(9,44,34,.45) 40%,rgba(9,44,34,.08) 100%);pointer-events:none;transition:opacity .25s}.hizmet:hover .h-foto::after{opacity:.55}.h-etiket{position:absolute;left:14px;top:14px;z-index:1;background:rgba(12,59,46,.86);color:#fff;font:600 .72rem/1 var(--fh);letter-spacing:.06em;text-transform:uppercase;padding:7px 10px;border-radius:6px;border-left:3px solid var(--altin)}.h-ikon{z-index:1}
 .h-ikon{position:absolute;left:18px;bottom:-22px;width:48px;height:48px;border-radius:12px;background:var(--yesil);color:var(--altin);display:grid;place-items:center;box-shadow:0 0 0 4px #fff}.h-ikon svg{width:24px;height:24px}
 .h-ic{padding:34px 20px 20px;display:flex;flex-direction:column;flex:1}
 .h-ic h3{color:var(--yesil)}.h-ic p{color:var(--ink2);font-size:.95rem;flex:1}

diff --git a/_kaynak/stil.css b/_kaynak/stil.css
@@ -90,7 +90,7 @@ p{margin:0 0 1em}.kap{width:min(1180px,100% - 32px);margin-inline:auto}.dar{widt
 .hizmetler{display:grid;grid-template-columns:repeat(3,1fr);gap:22px}
 .hizmet{background:#fff;border-radius:var(--r);overflow:hidden;box-shadow:0 1px 0 var(--line),0 12px 30px -24px rgba(12,59,46,.5);display:flex;flex-direction:column;transition:transform .2s,box-shadow .2s}
 .hizmet:hover{transform:translateY(-3px);box-shadow:var(--sh)}
-.h-foto{position:relative;aspect-ratio:16/10;border-bottom:3px solid var(--altin)}.h-foto img,.h-foto .yt{width:100%;height:100%;object-fit:cover}.h-foto img{filter:saturate(.88) contrast(1.04)}.h-foto::after{content:"";position:absolute;inset:0;background:linear-gradient(90deg,rgba(9,44,34,.62) 0,rgba(9,44,34,.38) 45%,rgba(9,44,34,.18) 100%);pointer-events:none;transition:opacity .25s}.hizmet:hover .h-foto::after{opacity:.55}.h-etiket{position:absolute;left:14px;top:14px;z-index:1;background:rgba(12,59,46,.86);color:#fff;font:600 .72rem/1 var(--fh);letter-spacing:.06em;text-transform:uppercase;padding:7px 10px;border-radius:6px;border-left:3px solid var(--altin)}.h-ikon{z-index:1}
+.h-foto{position:relative;aspect-ratio:16/10;border-bottom:3px solid var(--altin)}.h-foto img,.h-foto .yt{width:100%;height:100%;object-fit:cover}.h-foto img{filter:saturate(.88) contrast(1.04)}.h-foto::after{content:"";position:absolute;inset:0;background:linear-gradient(0deg,rgba(9,44,34,.85) 0,rgba(9,44,34,.45) 40%,rgba(9,44,34,.08) 100%);pointer-events:none;transition:opacity .25s}.hizmet:hover .h-foto::after{opacity:.55}.h-etiket{position:absolute;left:14px;top:14px;z-index:1;background:rgba(12,59,46,.86);color:#fff;font:600 .72rem/1 var(--fh);letter-spacing:.06em;text-transform:uppercase;padding:7px 10px;border-radius:6px;border-left:3px solid var(--altin)}.h-ikon{z-index:1}
 .h-ikon{position:absolute;left:18px;bottom:-22px;width:48px;height:48px;border-radius:12px;background:var(--yesil);color:var(--altin);display:grid;place-items:center;box-shadow:0 0 0 4px #fff}.h-ikon svg{width:24px;height:24px}
 .h-ic{padding:34px 20px 20px;display:flex;flex-direction:column;flex:1}
 .h-ic h3{color:var(--yesil)}.h-ic p{color:var(--ink2);font-size:.95rem;flex:1}

diff --git a/_kaynak/build.py b/_kaynak/build.py
@@ -60,7 +60,7 @@ GORSEL = {}
 FILIGRANSIZ = ("hero",)  # hero arka planda koyu katmanın altında; filigran eklenmez
 
 
-def filigran(im):
+def filigran(im, ust=False):
     """Sağ alt köşeye yarı saydam logo + alan adı (kurumsal damga)."""
     from PIL import Image, ImageDraw, ImageFont
     im = im.convert("RGBA")
@@ -80,7 +80,7 @@ def filigran(im):
     pad = round(boy * 0.6)
     kw, kh = round(ikon + pad * 3 + tw), round(ikon + pad * 1.4)
     m = round(w * 0.022)
-    x0, y0 = w - kw - m, h - kh - m
+    x0, y0 = w - kw - m, (m if ust else h - kh - m)
     d.rounded_rectangle((x0, y0, x0 + kw, y0 + kh), radius=kh // 2, fill=(12, 59, 46, 150))
     ix, iy = x0 + pad, y0 + (kh - ikon) // 2
     d.rounded_rectangle((ix, iy, ix + ikon, iy + ikon), radius=round(ikon * 0.28), fill=(224, 177, 58, 235))
@@ -120,7 +120,7 @@ def gorselleri_hazirla():
             hedef = os.path.join(KOK, "img", f"{ad}-{g}.webp")
             if not os.path.exists(hedef) or os.path.getmtime(hedef) < os.path.getmtime(os.path.join(kaynak, dosya)):
                 kucuk = im.resize((g2, h2), Image.LANCZOS)
-                (kucuk if ad in FILIGRANSIZ else filigran(kucuk)).save(hedef, "WEBP", quality=80, method=6)
+                (kucuk if ad in FILIGRANSIZ else filigran(kucuk, ust=ad not in ("kurumsal", "og-kapak"))).save(hedef, "WEBP", quality=80, method=6)
             boy.append((g, g2, h2))
         hazir[ad] = boy
     return hazir
@@ -130,10 +130,11 @@ def resim(ad, alt, sizes, oncelik=False):
     if ad not in GORSEL:
         return ""
     boy = GORSEL[ad]
-    srcset = ", ".join(f"img/{ad}-{g}.webp {g2}w" for g, g2, _ in boy)
+    v = lambda g: int(os.path.getmtime(os.path.join(KOK, "img", f"{ad}-{g}.webp")))  # önbellek kırıcı
+    srcset = ", ".join(f"img/{ad}-{g}.webp?v={v(g)} {g2}w" for g, g2, _ in boy)
     _, w0, h0 = boy[0]
     yuk = 'fetchpriority="high"' if oncelik else 'loading="lazy" decoding="async"'
-    return f'<img src="img/{ad}-{boy[0][0]}.webp" srcset="{srcset}" sizes="{sizes}" width="{w0}" height="{h0}" alt="{e(alt)}" {yuk}>'
+    return f'<img src="img/{ad}-{boy[0][0]}.webp?v={v(boy[0][0])}" srcset="{srcset}" sizes="{sizes}" width="{w0}" height="{h0}" alt="{e(alt)}" {yuk}>'
 
 
 def yer_tutucu(ikon, yazi):
